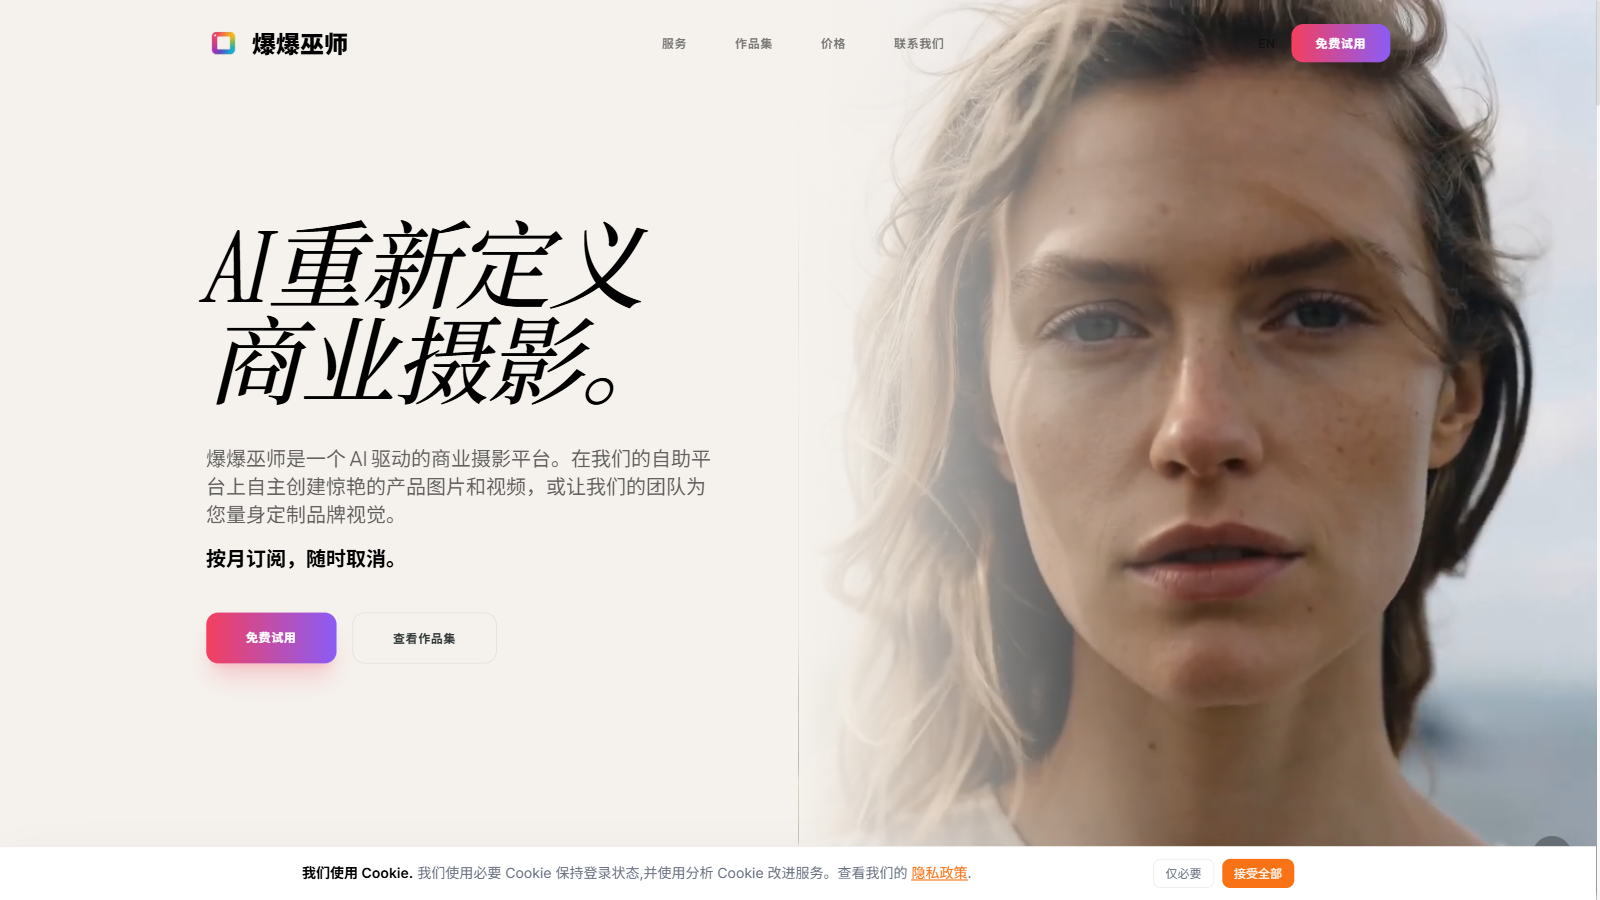
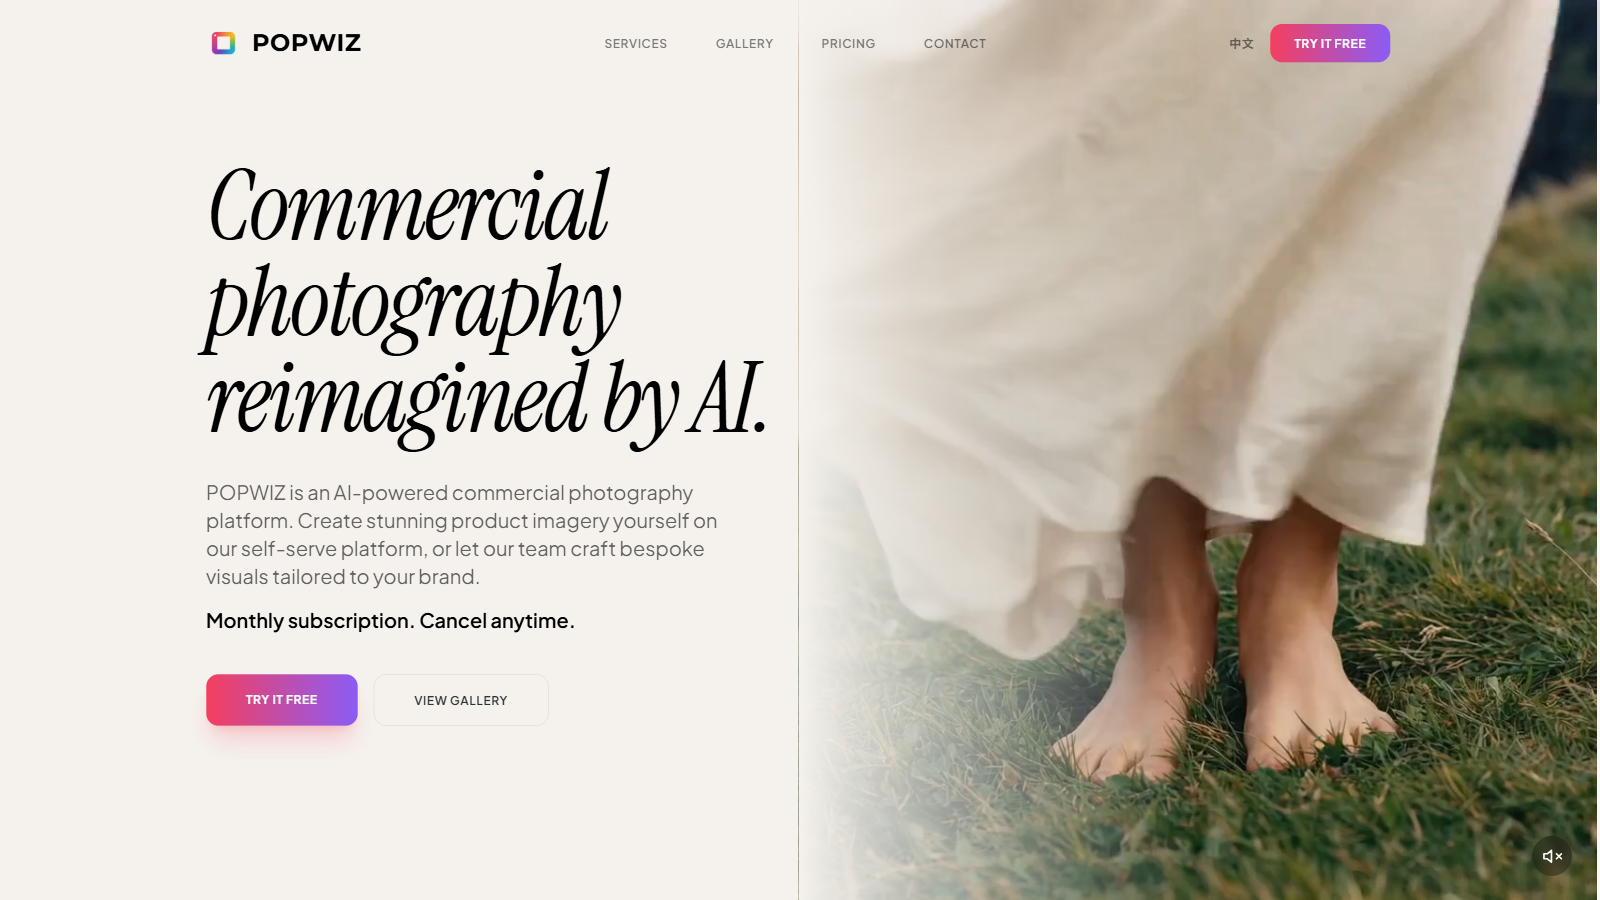
docs: switch hero to the English popwiz.ai landing
Re-captures the live 1600×900 hero via the ?lang=en variant of
popwiz.ai (cookie banner dismissed first) so the README's hero image
matches the English-language audience the rest of the submission
package is aimed at.

assets/README.md now records the new size (~849 KB vs the prior
~728 KB Chinese-landing capture) and notes the ?lang=en URL for
future re-renders.

diff --git a/assets/README.md b/assets/README.md
@@ -7,7 +7,7 @@ This directory holds visual assets used by the top-level `README.md` and
 
 | File | Current | Notes |
 |------|---------|-------|
-| `hero.png` | Live screenshot of popwiz.ai landing (1600×900 PNG, ~728 KB) | Update by re-running a 1600×900 capture of the production site. If size matters, run through `pngquant`. |
+| `hero.png` | Live screenshot of the English popwiz.ai landing (1600×900 PNG, ~849 KB) | Update by re-running a 1600×900 capture of the production site (`?lang=en`). If size matters, run through `pngquant`. |
 | `architecture.svg` | Rendered via mermaid.ink from the source in `../ARCHITECTURE.md` (1831×545 SVG, ~28 KB) | Re-render by passing the mermaid block through any compatible renderer (`mermaid.live`, `mermaid.ink`, `mmdc`) after editing the source. |
 
 Grep marker for any unreplaced placeholder anywhere in the repo:
